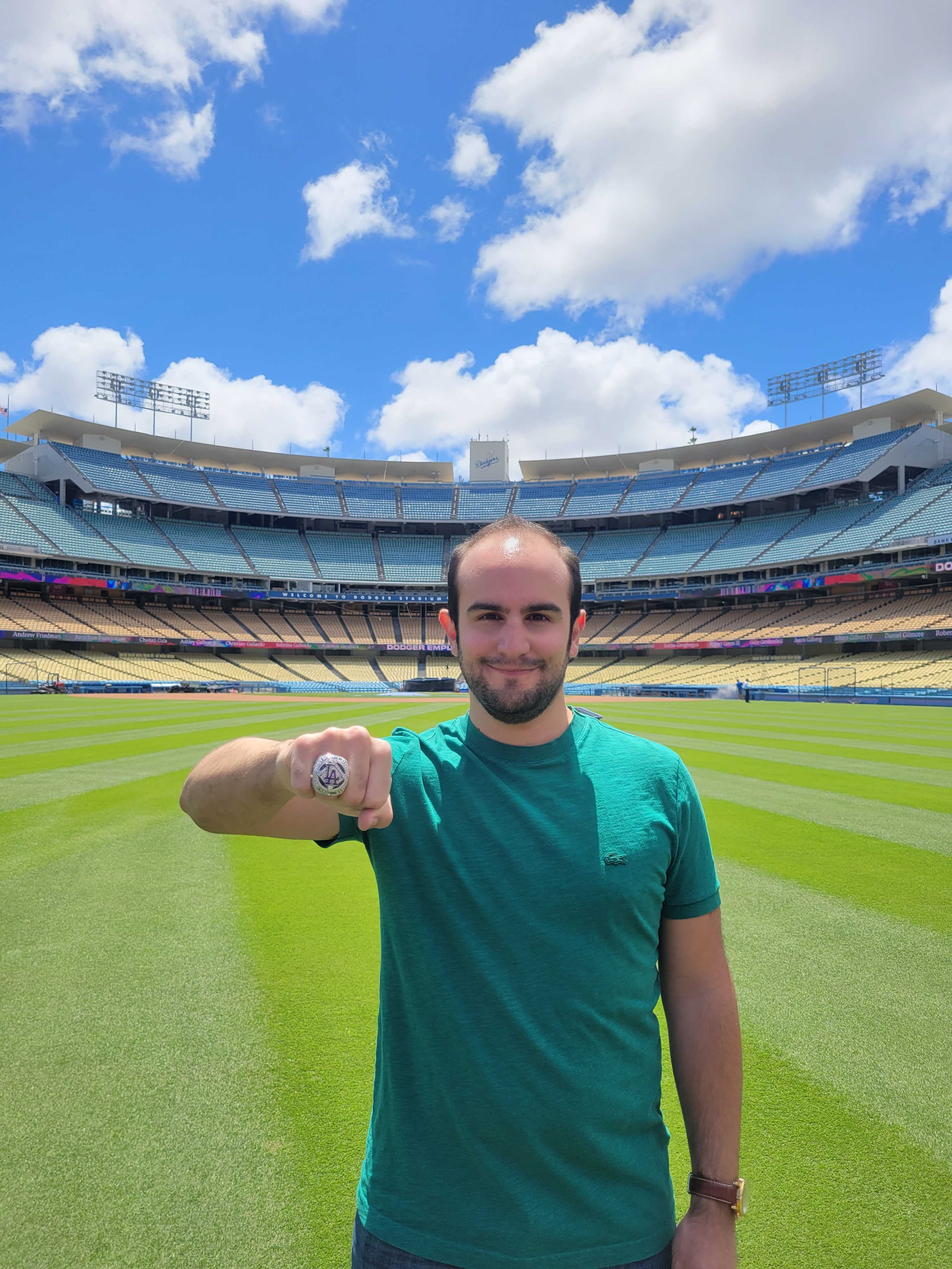
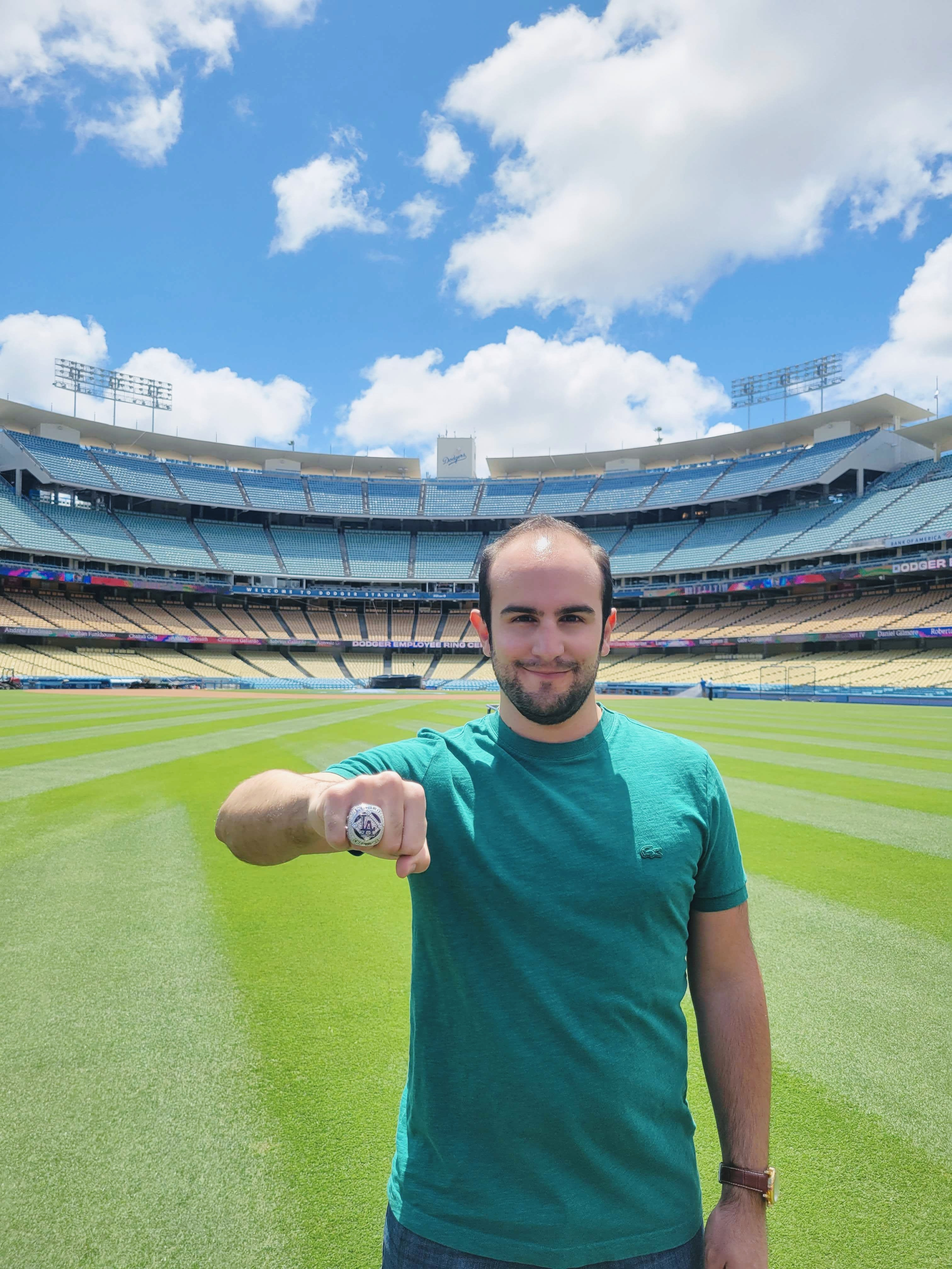
Fixes ring photo size. Fixes homepage landing for ZLS update.

diff --git a/index.md b/index.md
@@ -10,7 +10,7 @@ title: Welcome to my personal page!
   caption: "Dodger Stadium"
   image_description: "Dodger Stadium" -->
 
-I am currently a Quantitative Analyst at [Los Angeles Dodgers](https://www.mlb.com/dodgers/team/front-office)
+I am currently a Product Scientist at [Zelus Analytics](https://zelusanalytics.com/)
 
 This website contains information about my personal, professional and academic life
 

diff --git a/_pages/aboutme.md b/_pages/aboutme.md
@@ -29,4 +29,4 @@ permalink: /aboutme/
 
 ### Gallery
 
-![ENG_ring](/assets/images/EstebanRing.jpg)
+![ENG_ring](/assets/images/EstebanRing.jpg){ length=40% }
